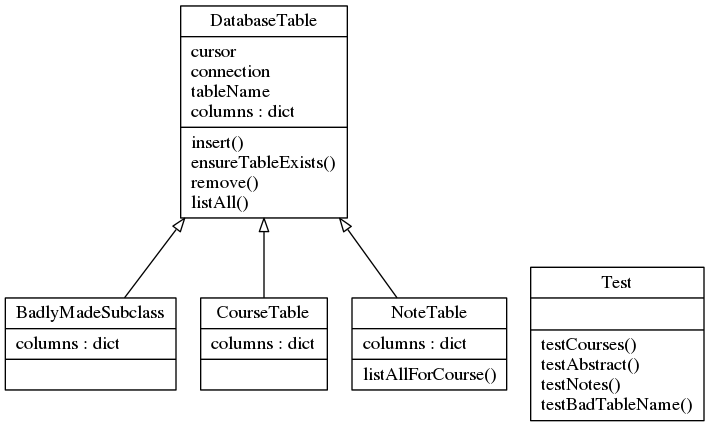
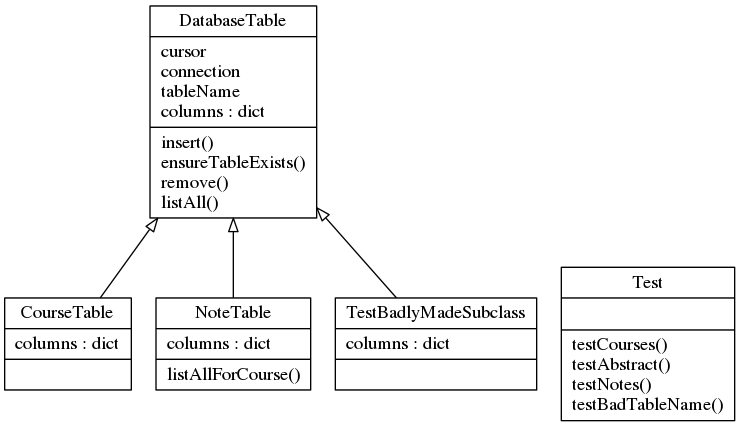
Final update before end of term(?)

Changed region(s): [[0.0, 0.0, 1.0, 1.0], [0.8378, 0.6393, 0.8999, 0.7002]]

diff --git a/src/database/databasetest.py b/src/database/databasetest.py
@@ -9,7 +9,7 @@ from databasetable import DatabaseTable
 from coursetable import CourseTable
 from notetable import NoteTable
 
-class BadlyMadeSubclass(DatabaseTable):
+class TestBadlyMadeSubclass(DatabaseTable):
     '''This will throw an exception because it is improperly named'''
     columns = {'dummy':'TEXT'}
 
@@ -22,7 +22,7 @@ class Test(unittest.TestCase):
         self.assertRaises(Exception, DatabaseTable, DUMMY_DATABASE)
     
     def testBadTableName(self):
-        self.assertRaises(Exception, BadlyMadeSubclass, DUMMY_DATABASE)
+        self.assertRaises(Exception, TestBadlyMadeSubclass, DUMMY_DATABASE)
 
     def testCourses(self):
         table = CourseTable(DUMMY_DATABASE)

diff --git a/src/embed/blockquote.py b/src/embed/blockquote.py
@@ -5,7 +5,7 @@ Created on 2014-01-09
 '''
 
 from gi.repository import Gtk
-from gui.embedcontextpane import EmbedContextPane
+from embedcontextpane import EmbedContextPane
 
 class BlockQuoteContextPane(Gtk.VBox, EmbedContextPane):
     def __init__(self):

diff --git a/src/embed/website.py b/src/embed/website.py
@@ -5,7 +5,7 @@ Created on 2013-12-23
 '''
 
 from gi.repository import Gtk
-from gui.embedcontextpane import EmbedContextPane
+from embedcontextpane import EmbedContextPane
 
 class WebsiteContextPane(Gtk.HBox, EmbedContextPane):
     def __init__(self):

diff --git a/src/embed/wikipedia.py b/src/embed/wikipedia.py
@@ -5,7 +5,7 @@ Created on 2013-12-23
 '''
 
 from gi.repository import Gtk
-from gui.embedcontextpane import EmbedContextPane
+from embedcontextpane import EmbedContextPane
 
 class WikiContextPane(Gtk.HBox, EmbedContextPane):
     def __init__(self):

diff --git a/src/embed/table.py b/src/embed/table.py
@@ -5,7 +5,7 @@ Created on 2014-03-31
 '''
 
 from gi.repository import Gtk
-from gui.embedcontextpane import EmbedContextPane
+from embedcontextpane import EmbedContextPane
 
 TEMPLATE = """
 </p>
